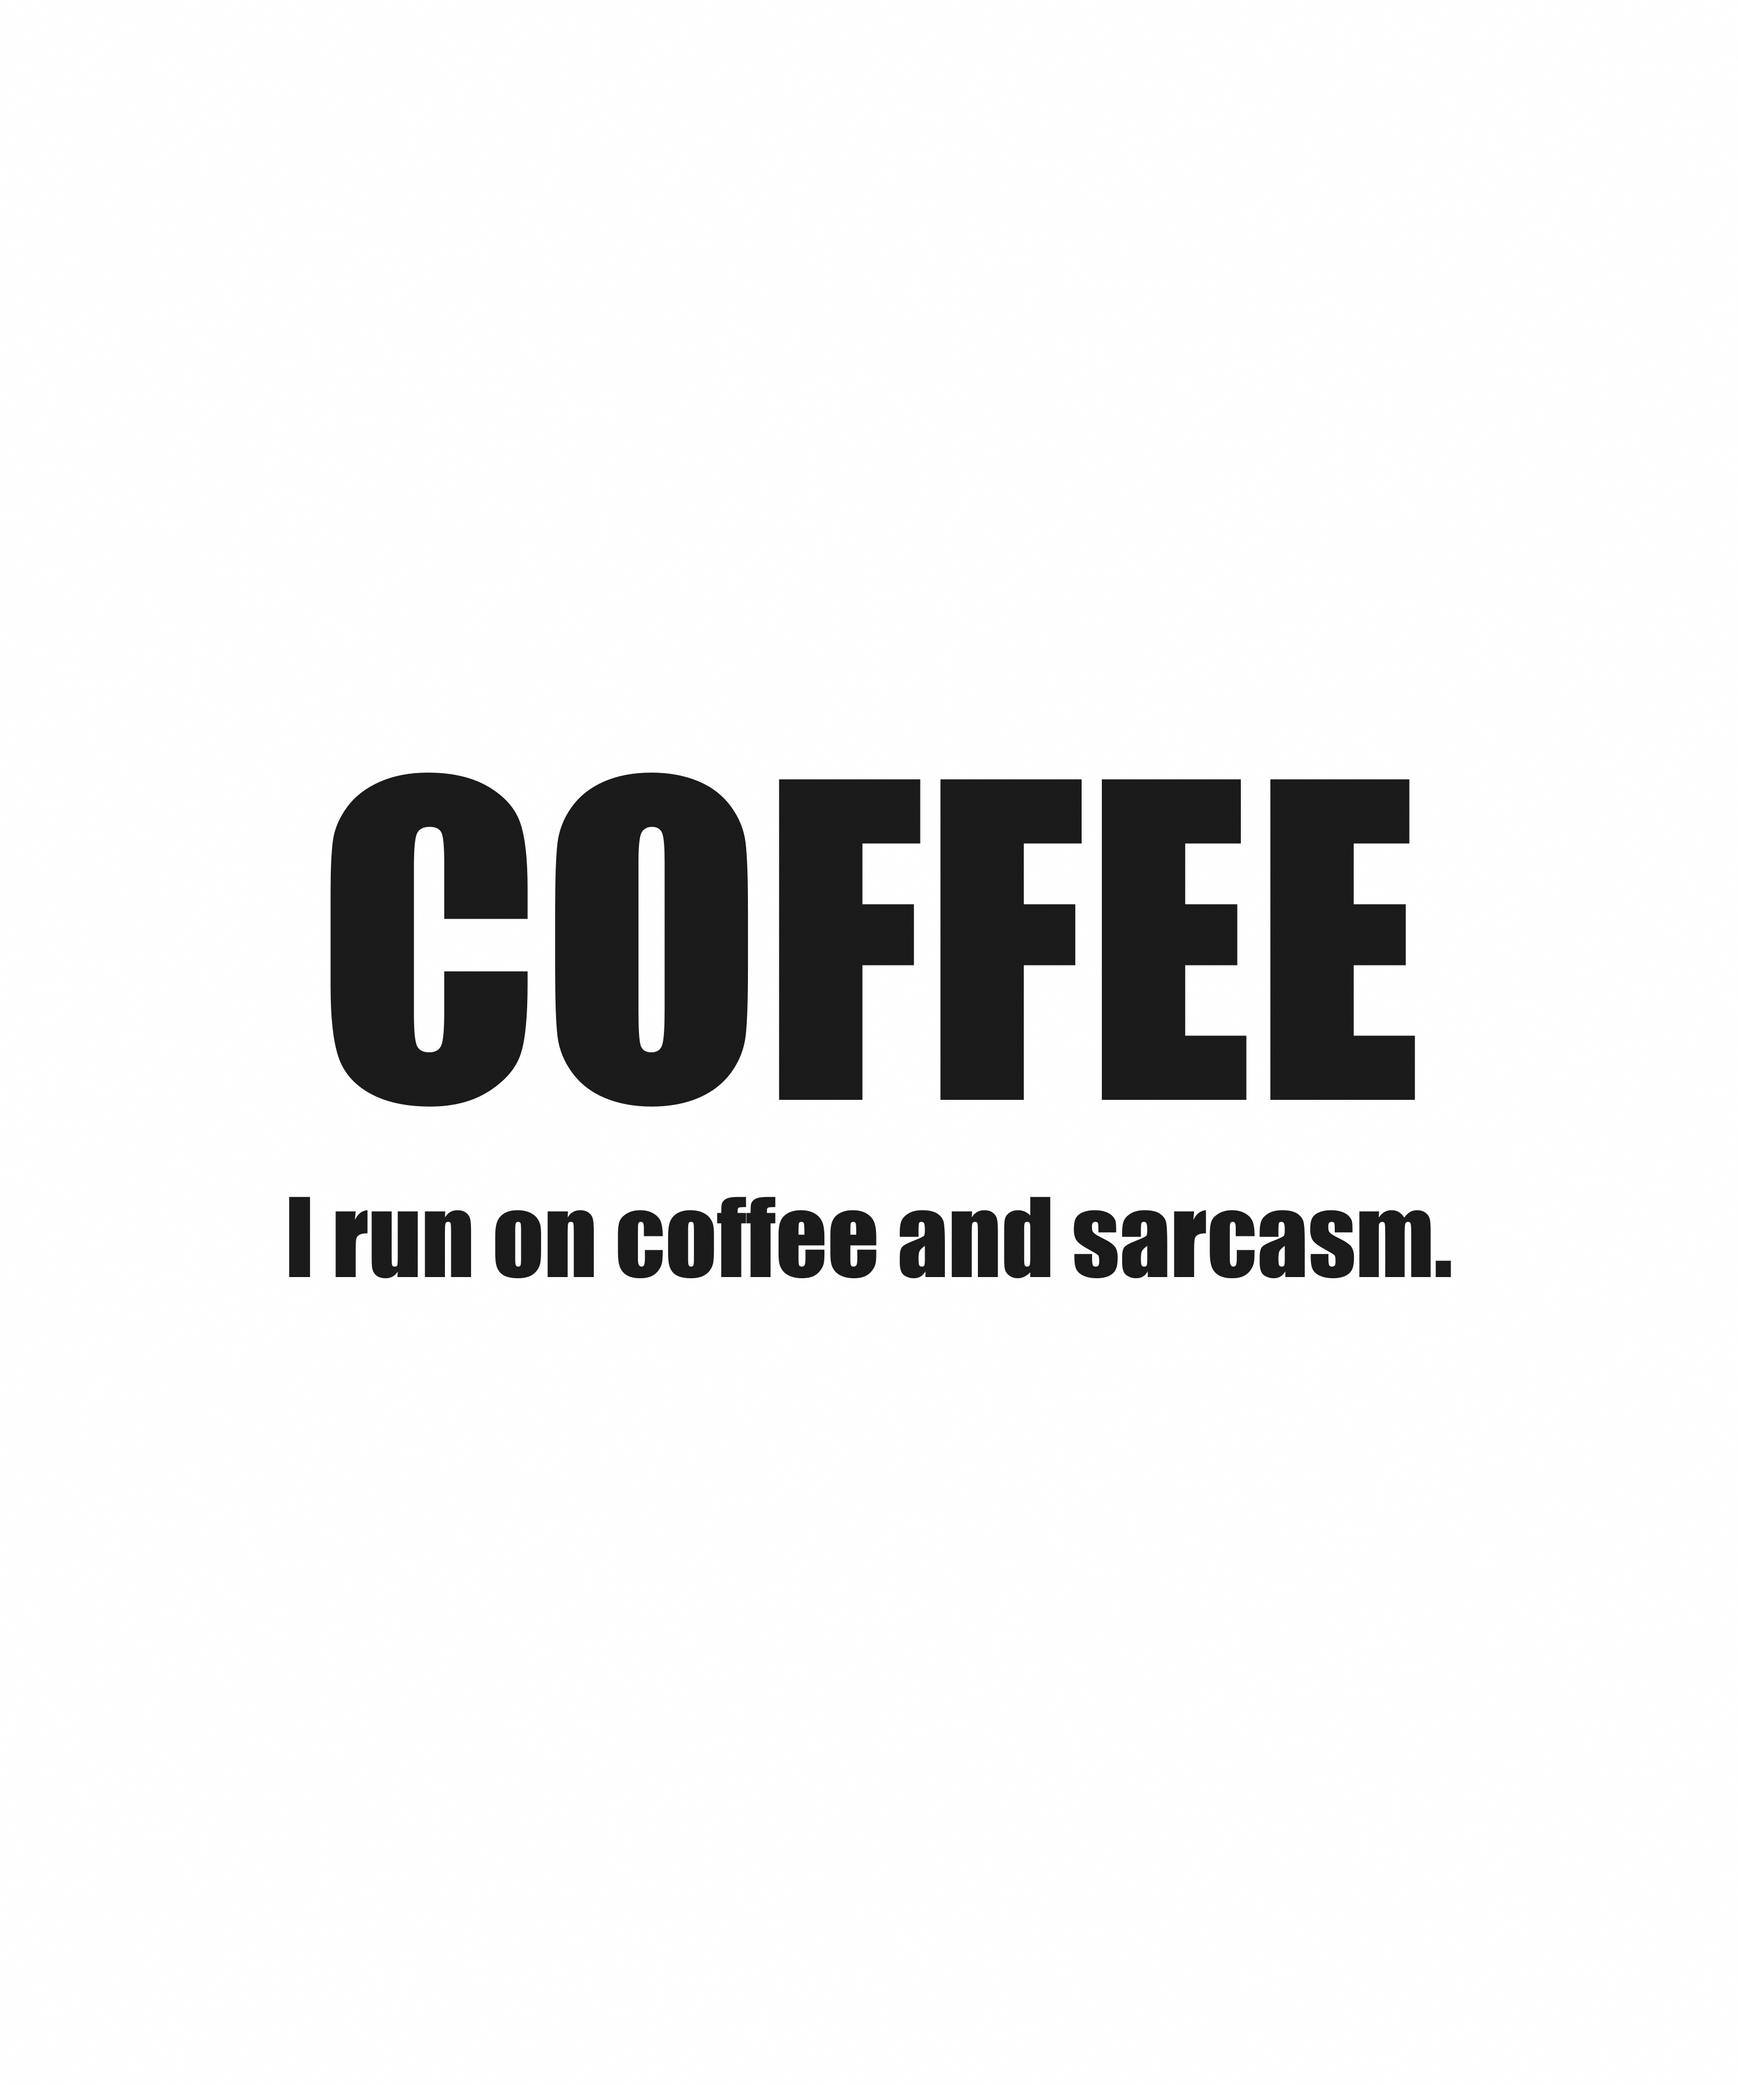
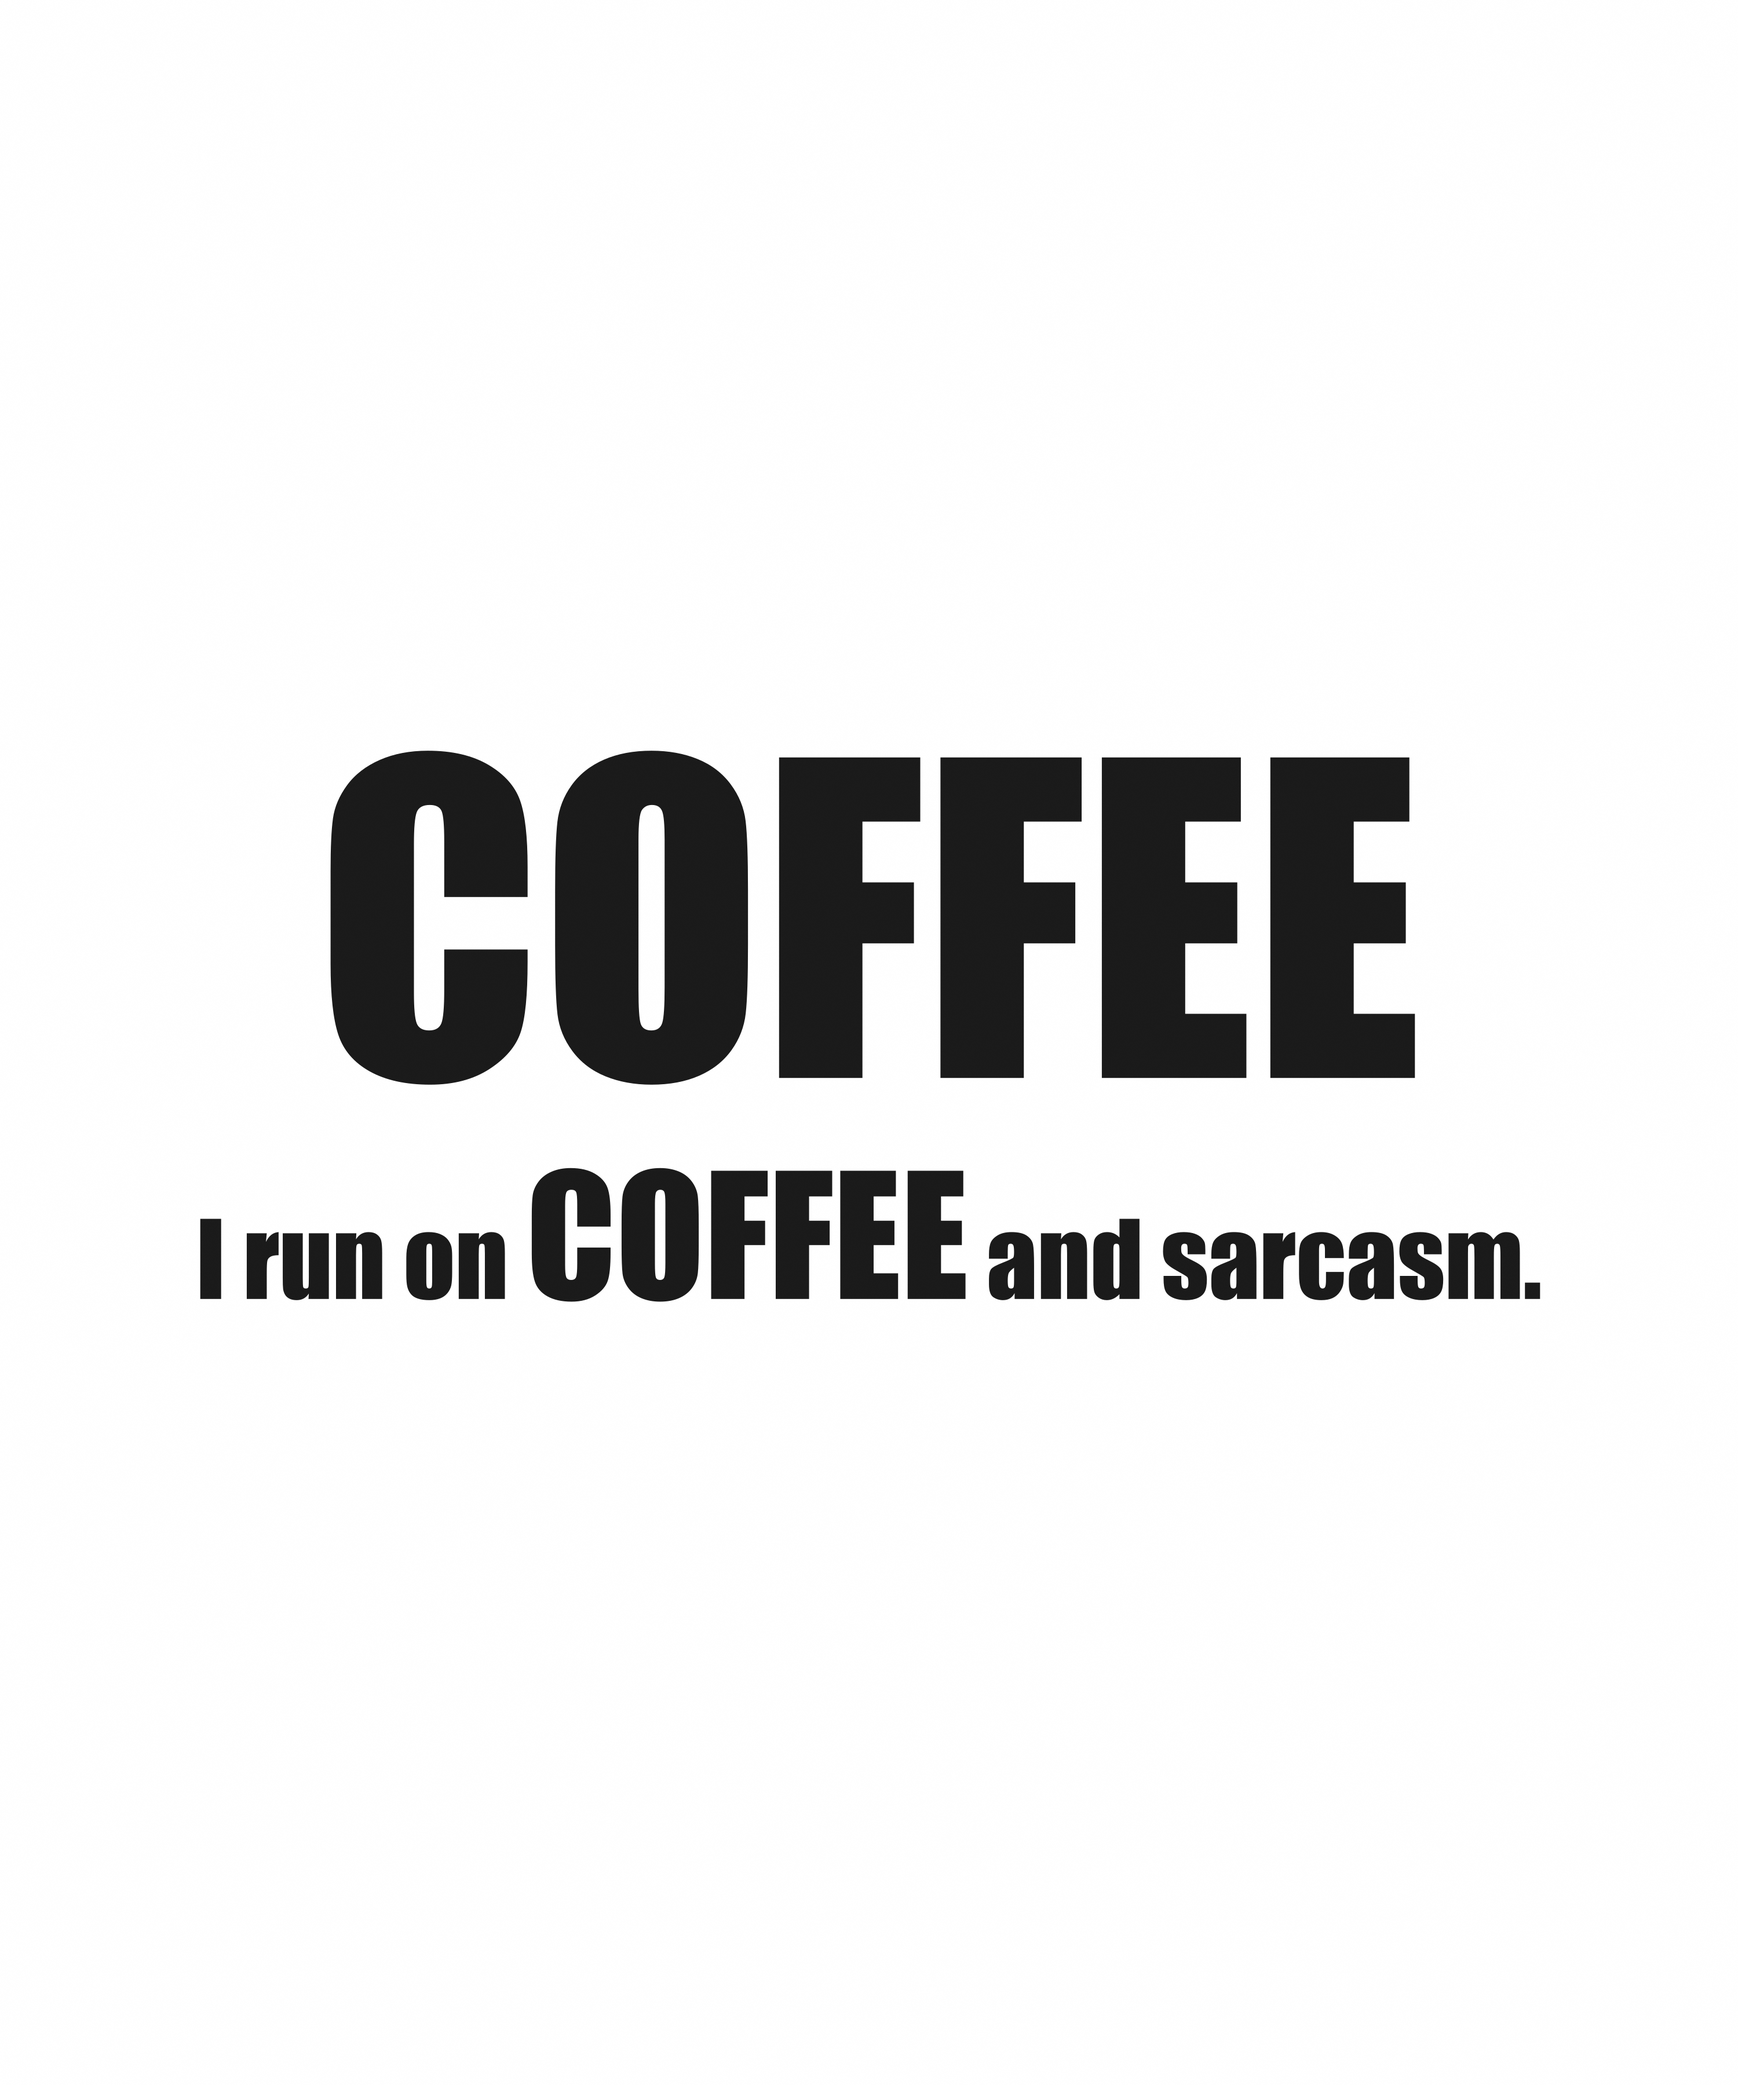
fix(designs): emphasize COFFEE inside sentence for product 12
Product 12 ("I run on coffee and sarcasm") rendered COFFEE huge at the
top and lowercase "coffee" inside the sentence at uniform small size,
violating the DUBIS power-word emphasis rule. Update the sentence to
"I run on COFFEE and sarcasm." with COFFEE rendered at 1.6x the
surrounding word size so the power-word styling is consistent between
the header and the sentence.

Generator gains inline emphasis support via an optional `emphasize:
{ word, scale }` field on a product; helpers `splitWithEmphasis`,
`measureMaxWidthEmph`, and `fitFontSizeEmph` plus per-line segment
rendering in generateBack. Emphasized line cap-height is driven by the
largest segment so vertical centering stays correct.

diff --git a/scripts/generate-designs.js b/scripts/generate-designs.js
@@ -67,7 +67,8 @@ const PRODUCTS = [
   { id: 11, phrase: "She believed she could, so she took a nap", layout: 'top-bottom',
     small: "She believed she could,\nso she took a",  big: "NAP.", after: ""     },
   { id: 12, phrase: "I run on coffee and sarcasm",        layout: 'big-top',
-    small: "",                     big: "COFFEE",     after: "I run on coffee and sarcasm." },
+    small: "",                     big: "COFFEE",     after: "I run on COFFEE and sarcasm.",
+    emphasize: { word: "COFFEE", scale: 1.6 } },
   { id: 13, phrase: "Zero Motivation Club",               layout: 'top-bottom',
     small: "Zero Motivation",      big: "CLUB",       after: ""                  },
   { id: 14, phrase: "Emotionally attached to my couch",  layout: 'top-bottom',
@@ -152,6 +153,62 @@ function fitFontSize(ctx, text, startSize, maxWidth, shrinkRatio = 0.95, minSize
   return size;
 }
 
+/**
+ * Split a line of text into segments around an emphasized word.
+ * The emphasized word renders at baseSize * scale; everything else at baseSize.
+ * Returns null if the word is not found (caller falls back to uniform rendering).
+ */
+function splitWithEmphasis(text, word, baseSize, scale) {
+  const idx = text.indexOf(word);
+  if (idx < 0) return null;
+  return [
+    { text: text.slice(0, idx),               size: baseSize         },
+    { text: word,                              size: baseSize * scale },
+    { text: text.slice(idx + word.length),    size: baseSize         },
+  ];
+}
+
+/**
+ * Emphasis-aware max width across all lines in a (possibly multi-line) string.
+ * Uses the base size for non-emphasized parts and baseSize*scale for the
+ * emphasized word. Falls back to plain measureMaxWidth when emphasize is unset.
+ */
+function measureMaxWidthEmph(ctx, text, baseSize, emphasize) {
+  if (!emphasize) {
+    setFont(ctx, baseSize);
+    return measureMaxWidth(ctx, text);
+  }
+  return Math.max(...text.split('\n').map(line => {
+    const segs = splitWithEmphasis(line, emphasize.word, baseSize, emphasize.scale);
+    if (!segs) {
+      setFont(ctx, baseSize);
+      return ctx.measureText(line).width;
+    }
+    let w = 0;
+    for (const s of segs) {
+      setFont(ctx, s.size);
+      w += ctx.measureText(s.text).width;
+    }
+    return w;
+  }));
+}
+
+/**
+ * Emphasis-aware version of fitFontSize. Shrinks the base size until the
+ * emphasis-aware width fits maxWidth. Without an emphasize spec this is
+ * identical to fitFontSize.
+ */
+function fitFontSizeEmph(ctx, text, startSize, maxWidth, emphasize, shrinkRatio = 0.95, minSize = 40) {
+  if (!text) return startSize;
+  let size = startSize;
+  let width = measureMaxWidthEmph(ctx, text, size, emphasize);
+  while (width > maxWidth && size > minSize) {
+    size = size * shrinkRatio;
+    width = measureMaxWidthEmph(ctx, text, size, emphasize);
+  }
+  return size;
+}
+
 // ---------------------------------------------------------------------------
 // Back design generator  (3000 × 3600 px)
 // ---------------------------------------------------------------------------
@@ -211,21 +268,33 @@ function generateBack(product, color, outPath) {
 
   // ---- 1) Build the ordered list of blocks for this layout ----
   //     Each block's size is auto-shrunk if its widest line overflows.
+  //     `emphasize` (optional, only on the `after` block) lets a single word
+  //     inside the small sentence render larger — used by product #12 so the
+  //     word COFFEE matches the big-top header inside the sentence too.
   const blocks = [];
+  const emph = product.emphasize || null;
   if (product.layout === 'top-bottom') {
     if (product.small) blocks.push({ text: product.small, size: fitFontSize(ctx, product.small, SMALL_SIZE, SAFE_W_SMALL) });
     if (product.big)   blocks.push({ text: product.big,   size: fitFontSize(ctx, product.big,   BIG_SIZE,   SAFE_W_BIG)   });
-    if (product.after) blocks.push({ text: product.after, size: fitFontSize(ctx, product.after, AFTER_SIZE, SAFE_W_SMALL) });
+    if (product.after) blocks.push({ text: product.after, size: fitFontSizeEmph(ctx, product.after, AFTER_SIZE, SAFE_W_SMALL, emph), emphasize: emph });
   } else if (product.layout === 'big-top') {
     if (product.big)   blocks.push({ text: product.big,   size: fitFontSize(ctx, product.big,   BIG_SIZE,   SAFE_W_BIG)   });
-    if (product.after) blocks.push({ text: product.after, size: fitFontSize(ctx, product.after, AFTER_SIZE, SAFE_W_SMALL) });
+    if (product.after) blocks.push({ text: product.after, size: fitFontSizeEmph(ctx, product.after, AFTER_SIZE, SAFE_W_SMALL, emph), emphasize: emph });
   }
 
   // ---- 2) Flatten multi-line blocks into individual visual lines ----
+  //     Lines with an emphasized word carry a `segs` array; their cap-height
+  //     is driven by the largest segment so the stack still vertically aligns.
   const lines = [];
   for (const b of blocks) {
     for (const sub of b.text.split('\n')) {
-      lines.push({ text: sub, size: b.size, cap: b.size * CAP_RATIO });
+      const segs = b.emphasize
+        ? splitWithEmphasis(sub, b.emphasize.word, b.size, b.emphasize.scale)
+        : null;
+      const cap = segs
+        ? Math.max(...segs.map(s => s.size)) * CAP_RATIO
+        : b.size * CAP_RATIO;
+      lines.push({ text: sub, size: b.size, cap, segs });
     }
   }
   if (lines.length === 0) {
@@ -243,9 +312,29 @@ function generateBack(product, color, outPath) {
   let topY = (BACK_H - totalH) / 2;
 
   // ---- 5) Draw each line at its cap-top → baseline = topY + cap ----
+  //     Plain lines: single fillText centered on canvas.
+  //     Segmented lines (emphasis): measure total width, then walk segments
+  //     left-to-right starting at centerX - totalW/2, all sharing one baseline.
   for (const l of lines) {
-    setFont(ctx, l.size);
-    ctx.fillText(l.text, centerX, topY + l.cap);
+    const baselineY = topY + l.cap;
+    if (l.segs) {
+      let totalW = 0;
+      for (const s of l.segs) {
+        setFont(ctx, s.size);
+        totalW += ctx.measureText(s.text).width;
+      }
+      let x = centerX - totalW / 2;
+      ctx.textAlign = 'left';
+      for (const s of l.segs) {
+        setFont(ctx, s.size);
+        ctx.fillText(s.text, x, baselineY);
+        x += ctx.measureText(s.text).width;
+      }
+      ctx.textAlign = 'center';
+    } else {
+      setFont(ctx, l.size);
+      ctx.fillText(l.text, centerX, baselineY);
+    }
     topY += l.cap + GAP;
   }
 
